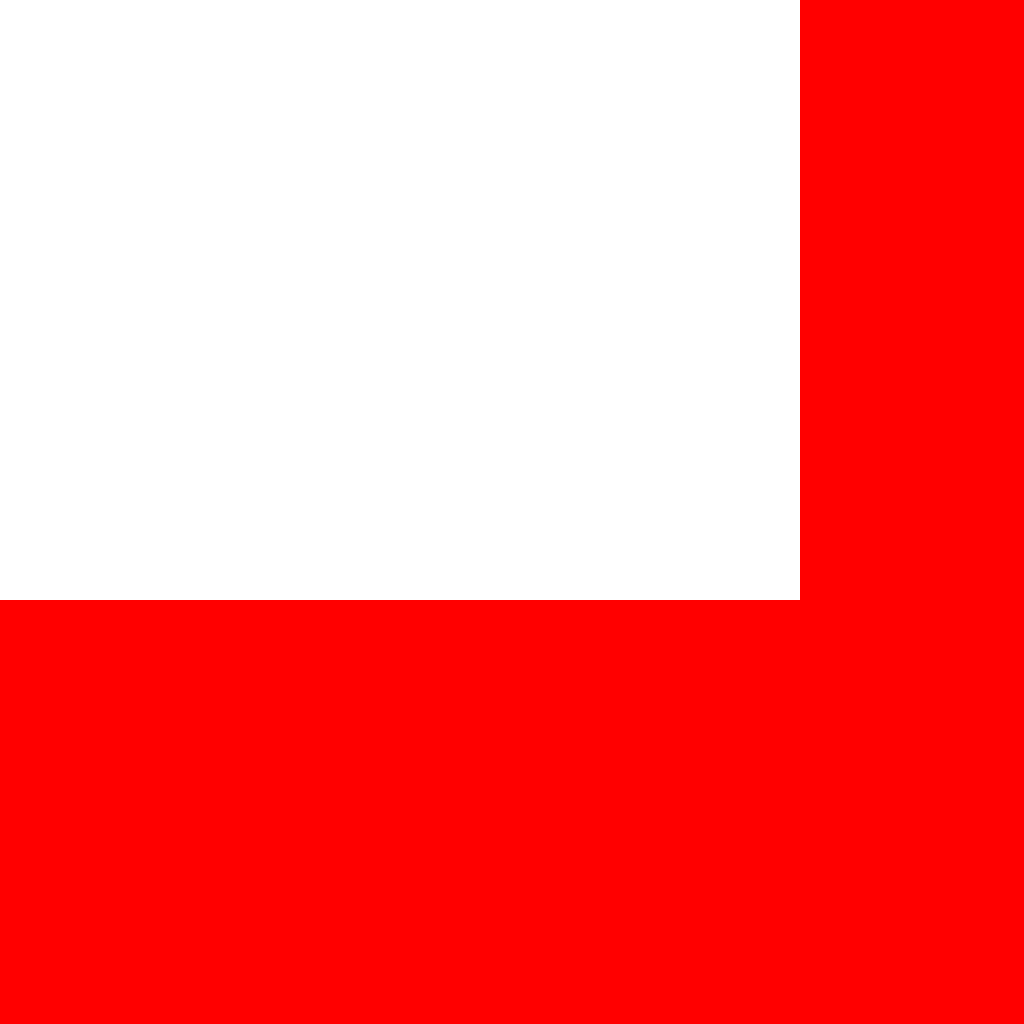
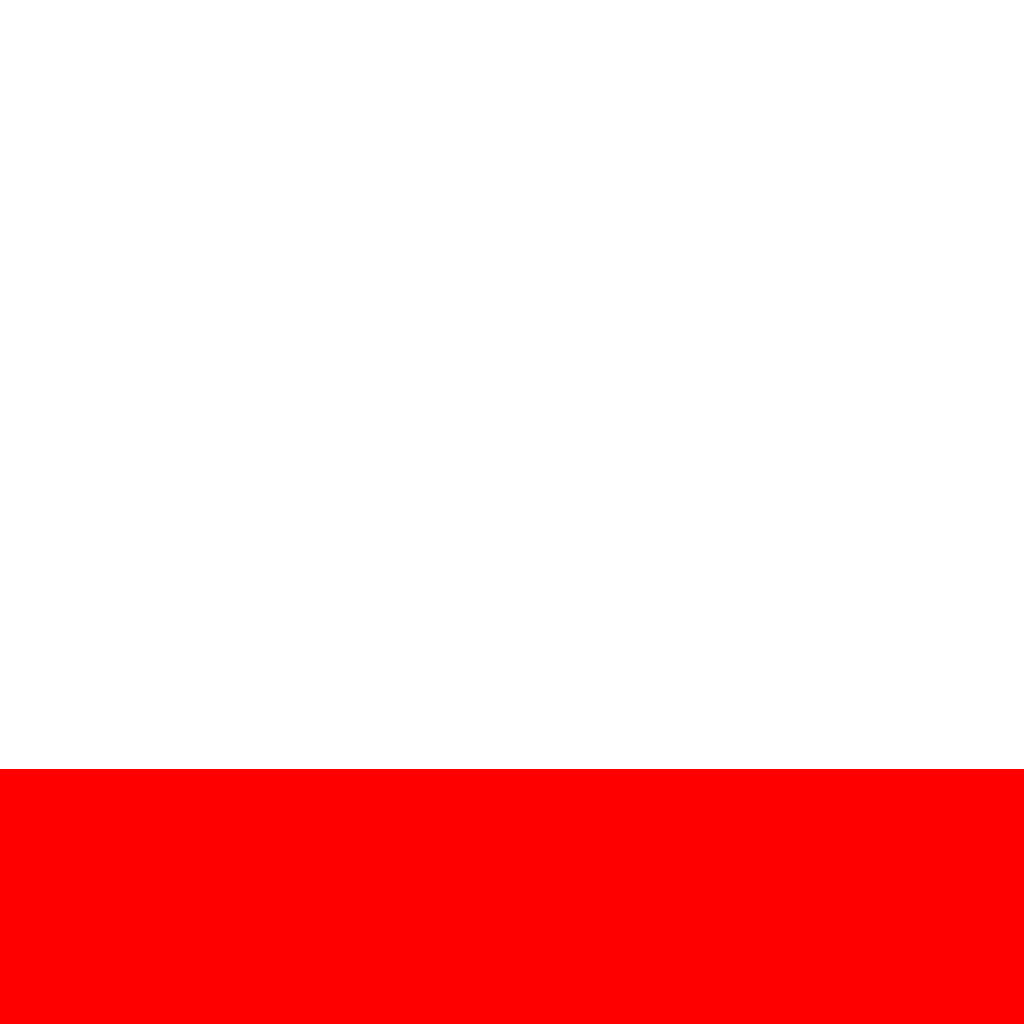
Updated ingame GUI size.

Changed region(s): [[0.0, 0.0, 1.0, 0.75]]

diff --git a/src/orpg/editor/ui/MapView.java b/src/orpg/editor/ui/MapView.java
@@ -36,8 +36,8 @@ import orpg.shared.data.MapLayer;
 import orpg.shared.data.TileFlag;
 import orpg.shared.data.component.Position;
 
-public class MapView extends JComponent implements Observer,
-		MouseListener, MouseMotionListener {
+public class MapView extends JComponent implements Observer, MouseListener,
+		MouseMotionListener {
 
 	private static final AlphaComposite ATTRIBUTE_COMPOSITE = AlphaComposite
 			.getInstance(AlphaComposite.SRC_OVER,
@@ -96,10 +96,9 @@ public class MapView extends JComponent implements Observer,
 		this.addMouseMotionListener(this);
 
 		// Setup the scroll bars to make requests for segments
-		AdjustmentListener listener = new MapViewAdjustmentListener(
-				controller, editorController, scrollPane);
-		scrollPane.getHorizontalScrollBar()
-				.addAdjustmentListener(listener);
+		AdjustmentListener listener = new MapViewAdjustmentListener(controller,
+				editorController, scrollPane);
+		scrollPane.getHorizontalScrollBar().addAdjustmentListener(listener);
 		scrollPane.getVerticalScrollBar().addAdjustmentListener(listener);
 
 		// Setup autotile renderers
@@ -136,8 +135,8 @@ public class MapView extends JComponent implements Observer,
 
 		g.drawImage(this.images[(tile / Constants.TILESET_WIDTH)
 				/ Constants.TILESET_HEIGHT], x, y, x + tileWidth, y
-				+ tileHeight, srcX, srcY, srcX + Constants.TILE_WIDTH,
-				srcY + Constants.TILE_HEIGHT, null);
+				+ tileHeight, srcX, srcY, srcX + Constants.TILE_WIDTH, srcY
+				+ Constants.TILE_HEIGHT, null);
 
 	}
 
@@ -166,13 +165,12 @@ public class MapView extends JComponent implements Observer,
 		// Determine renderable area
 		int startX = Math.max(0, (scrollPane.getHorizontalScrollBar()
 				.getValue() / tileWidth) - 4);
-		int startY = Math.max(0, (scrollPane.getVerticalScrollBar()
-				.getValue() / tileHeight) - 4);
-		int endX = Math.min(startX + 6
-				+ (scrollPane.getWidth() / tileWidth),
+		int startY = Math
+				.max(0,
+						(scrollPane.getVerticalScrollBar().getValue() / tileHeight) - 4);
+		int endX = Math.min(startX + 6 + (scrollPane.getWidth() / tileWidth),
 				mapController.getMapWidth());
-		int endY = Math.min(startY + 6
-				+ (scrollPane.getHeight() / tileHeight),
+		int endY = Math.min(startY + 6 + (scrollPane.getHeight() / tileHeight),
 				mapController.getMapHeight());
 		short tile;
 
@@ -196,17 +194,16 @@ public class MapView extends JComponent implements Observer,
 						}
 					} else if (tile == Map.LOADING_TILE) {
 						if (z == 0) {
-							graphics.drawImage(this.loadingTile, dX, dY,
-									dX + tileWidth, dY + tileHeight, 0, 0,
+							graphics.drawImage(this.loadingTile, dX, dY, dX
+									+ tileWidth, dY + tileHeight, 0, 0,
 									Constants.TILE_WIDTH,
 									Constants.TILE_HEIGHT, null);
 						}
 					} else {
 						if (autoTiles.containsKey(tile)) {
-							autoTileRenderers.get(autoTiles.get(tile))
-									.draw(graphics, x, y, z, tile, dX, dY,
-											tileWidth, tileHeight,
-											mapController, this.images);
+							autoTileRenderers.get(autoTiles.get(tile)).draw(
+									graphics, x, y, z, tile, dX, dY, tileWidth,
+									tileHeight, mapController, this.images);
 						} else {
 							renderTile(graphics, dX, dY, tile);
 						}
@@ -234,14 +231,13 @@ public class MapView extends JComponent implements Observer,
 
 		// Render grid above everything if necessary
 		if (editorController.isGridEnabled()) {
-			renderGrid(graphics, regularComposite, startX, startY, endX,
-					endY);
+			renderGrid(graphics, regularComposite, startX, startY, endX, endY);
 		}
 
 		// Render attributes if we are in the attributes tab
 		if (editorController.getCurrentTab() == MapEditorTab.ATTRIBUTES) {
-			renderAttributes(graphics, regularComposite, startX, startY,
-					endX, endY);
+			renderAttributes(graphics, regularComposite, startX, startY, endX,
+					endY);
 		}
 
 	}
@@ -287,15 +283,15 @@ public class MapView extends JComponent implements Observer,
 	 * @param endY
 	 */
 	private void renderGrid(Graphics2D graphics,
-			AlphaComposite regularComposite, int startX, int startY,
-			int endX, int endY) {
+			AlphaComposite regularComposite, int startX, int startY, int endX,
+			int endY) {
 		graphics.setComposite(GRID_COMPOSITE);
 		graphics.setColor(Color.gray);
 		// Render the entire tilerange
 		for (int y = startY; y < endY; y++) {
 			for (int x = startX; x < endX; x++) {
-				graphics.drawRect(x * tileWidth, y * tileHeight,
-						tileWidth, tileHeight);
+				graphics.drawRect(x * tileWidth, y * tileHeight, tileWidth,
+						tileHeight);
 			}
 		}
 		graphics.setComposite(regularComposite);
@@ -312,8 +308,8 @@ public class MapView extends JComponent implements Observer,
 	 * @param endY
 	 */
 	private void renderEntities(Graphics2D graphics,
-			AlphaComposite regularComposite, int startX, int startY,
-			int endX, int endY) {
+			AlphaComposite regularComposite, int startX, int startY, int endX,
+			int endY) {
 		graphics.setComposite(ENTITY_COMPOSITE);
 		Color fillColor = Color.blue.brighter();
 		Color borderColor = Color.gray.darker();
@@ -325,8 +321,10 @@ public class MapView extends JComponent implements Observer,
 
 		List<ComponentList> entities;
 		Position position;
-		for (int sX = startSegmentX; sX <= endSegmentX; sX++) {
-			for (int sY = startSegmentY; sY <= endSegmentY; sY++) {
+		for (int sX = startSegmentX; sX <= Math.min(endSegmentX, mapController
+				.getMap().getSegmentsWide() - 1); sX++) {
+			for (int sY = startSegmentY; sY <= Math.min(endSegmentX,
+					mapController.getMap().getSegmentsHigh() - 1); sY++) {
 				if (mapController.getSegments()[sX][sY] != null) {
 					entities = mapController.getSegments()[sX][sY]
 							.getEntities();
@@ -337,15 +335,13 @@ public class MapView extends JComponent implements Observer,
 									&& position.getY() >= startY
 									&& position.getY() < endY) {
 								graphics.setColor(fillColor);
-								graphics.fillRect(position.getX()
-										* tileWidth, position.getY()
-										* tileHeight, tileWidth,
-										tileHeight);
+								graphics.fillRect(position.getX() * tileWidth,
+										position.getY() * tileHeight,
+										tileWidth, tileHeight);
 								graphics.setColor(borderColor);
-								graphics.drawRect(position.getX()
-										* tileWidth, position.getY()
-										* tileHeight, tileWidth,
-										tileHeight);
+								graphics.drawRect(position.getX() * tileWidth,
+										position.getY() * tileHeight,
+										tileWidth, tileHeight);
 							}
 						}
 					}
@@ -357,16 +353,16 @@ public class MapView extends JComponent implements Observer,
 	}
 
 	private void renderAttributes(Graphics2D graphics,
-			AlphaComposite regularComposite, int startX, int startY,
-			int endX, int endY) {
+			AlphaComposite regularComposite, int startX, int startY, int endX,
+			int endY) {
 		TileFlag flag = editorController.getCurrentTileFlag();
 		graphics.setComposite(ATTRIBUTE_COMPOSITE);
 		for (int y = startY; y < endY; y++) {
 			for (int x = startX; x < endX; x++) {
 				if (mapController.hasFlag(x, y, flag)) {
 					graphics.setColor(Color.red);
-					graphics.fillRect(x * tileWidth, y * tileHeight,
-							tileWidth, tileHeight);
+					graphics.fillRect(x * tileWidth, y * tileHeight, tileWidth,
+							tileHeight);
 				}
 			}
 		}

diff --git a/src/orpg/client/net/handlers/SegmentDataHandler.java b/src/orpg/client/net/handlers/SegmentDataHandler.java
@@ -9,6 +9,7 @@ import com.badlogic.gdx.Gdx;
 import com.badlogic.gdx.graphics.Texture;
 
 import orpg.client.BaseClient;
+import orpg.client.ClientConstants;
 import orpg.client.Paths;
 import orpg.client.data.ClientReceivedPacket;
 import orpg.client.data.component.Camera;
@@ -48,8 +49,8 @@ public class SegmentDataHandler implements ClientPacketHandler {
 		System.out.println("Using local? " + usingLocal);
 
 		final Segment segment = (usingLocal ? baseClient.getLocalMap()
-				.getSegment(tmpSegmentX, tmpSegmentY) : packet
-				.getByteBuffer().getSegment());
+				.getSegment(tmpSegmentX, tmpSegmentY) : packet.getByteBuffer()
+				.getSegment());
 
 		final short segmentX = usingLocal ? tmpSegmentX : segment.getX();
 		final short segmentY = usingLocal ? tmpSegmentY : segment.getY();
@@ -58,8 +59,7 @@ public class SegmentDataHandler implements ClientPacketHandler {
 		baseClient.getMap().updateSegment(segment, false);
 		baseClient.getAutoTileController().updateAutoTileCache(
 				baseClient.getMap(), segment, true);
-		baseClient.getSegmentRequestManager().receivedResponse(mapId,
-				segment);
+		baseClient.getSegmentRequestManager().receivedResponse(mapId, segment);
 
 		// Switch to game state if we aren't already in game state
 		if (!(baseClient.getStateManager().getCurrentState() instanceof GameState)) {
@@ -125,8 +125,7 @@ public class SegmentDataHandler implements ClientPacketHandler {
 					// Can assume named if is player
 					if (baseClient.getEntity() == null
 							&& isPlayerMapper.getSafe(entity) != null
-							&& namedMapper.get(entity).getName()
-									.equals(name)) {
+							&& namedMapper.get(entity).getName().equals(name)) {
 						baseClient.setEntity(entity);
 
 						// If we were presently changing maps, we are done now
@@ -135,8 +134,10 @@ public class SegmentDataHandler implements ClientPacketHandler {
 						// If it is the player, add the camera if it is not
 						// already present
 						Position position = positionMapper.get(entity);
-						entity.addComponent(new Camera(800, 446,
-								baseClient.getMap().getWidth()
+						entity.addComponent(new Camera(
+								ClientConstants.GAME_WIDTH,
+								ClientConstants.GAME_HEIGHT, baseClient
+										.getMap().getWidth()
 										* Constants.TILE_WIDTH, baseClient
 										.getMap().getHeight()
 										* Constants.TILE_HEIGHT, position

diff --git a/src/orpg/client/state/GameState.java b/src/orpg/client/state/GameState.java
@@ -1,6 +1,7 @@
 package orpg.client.state;
 
 import orpg.client.BaseClient;
+import orpg.client.ClientConstants;
 import orpg.client.Paths;
 import orpg.client.ui.BackgroundTextureActor;
 import orpg.client.ui.MapEntitiesActor;
@@ -32,6 +33,10 @@ public class GameState extends ClientState {
 			Texture loadingTileTexture, Texture[] spritesets) {
 		this.baseClient = baseClient;
 
+		// Update the size of the game screen
+		((ClientStateManager) (baseClient.getStateManager())).getGame().resize(
+				1024, 768);
+
 		// Setup the stage
 		this.stage = new Stage();
 
@@ -39,27 +44,22 @@ public class GameState extends ClientState {
 		this.loadingTileTexture = loadingTileTexture;
 		this.spritesets = spritesets;
 
-		Actor bottomLayersActor = new MapLayerActor(
-				baseClient,
-				tilesets,
-				loadingTileTexture,
-				new int[] { MapLayer.GROUND.ordinal(),
+		Actor bottomLayersActor = new MapLayerActor(baseClient, tilesets,
+				loadingTileTexture, new int[] { MapLayer.GROUND.ordinal(),
 						MapLayer.MASK.ordinal(), MapLayer.MASK_2.ordinal() },
-				0, 800, 0, 446);
-		Actor mapEntitiesActor = new MapEntitiesActor(baseClient,
-				spritesets);
+				0, ClientConstants.GAME_WIDTH, 0, ClientConstants.GAME_HEIGHT);
+		Actor mapEntitiesActor = new MapEntitiesActor(baseClient, spritesets);
 		Actor topLayersActor = new MapLayerActor(baseClient, tilesets,
-				loadingTileTexture,
-				new int[] { MapLayer.FRINGE.ordinal() }, 0, 800, 0, 446);
+				loadingTileTexture, new int[] { MapLayer.FRINGE.ordinal() }, 0,
+				ClientConstants.GAME_WIDTH, 0, ClientConstants.GAME_HEIGHT);
 
 		this.stage.addActor(bottomLayersActor);
 		this.stage.addActor(mapEntitiesActor);
 		this.stage.addActor(topLayersActor);
 
-		this.backgroundTexture = new Texture(
-				Paths.asset("game_background.png"));
-		this.stage.addActor(new BackgroundTextureActor(backgroundTexture,
-				800, 600, true));
+		this.backgroundTexture = new Texture(Paths.asset("game_background.png"));
+		this.stage.addActor(new BackgroundTextureActor(backgroundTexture, 1024,
+				768, true));
 
 		// Setup the camera
 		this.camera = new OrthographicCamera(Gdx.graphics.getWidth(),
@@ -94,6 +94,7 @@ public class GameState extends ClientState {
 
 	@Override
 	public void resize(int width, int height) {
+
 	}
 
 	@Override

diff --git a/src/orpg/client/ClientGame.java b/src/orpg/client/ClientGame.java
@@ -13,6 +13,7 @@ import orpg.shared.Constants;
 import orpg.shared.state.StateManager;
 
 import com.badlogic.gdx.Game;
+import com.badlogic.gdx.Gdx;
 
 public class ClientGame extends Game {
 
@@ -42,11 +43,16 @@ public class ClientGame extends Game {
 		}
 
 		// Set up the queue of actions to perfor
-		StateManager stateManager = new ClientStateManager(this);
+		ClientStateManager stateManager = new ClientStateManager(this);
 		this.baseClient = new BaseClient(this, s, new ClientProcessThread(),
 				stateManager, config);
 		stateManager.pushState(new MainMenuState(baseClient));
 
+	}
+	
+	@Override
+	public void resize(int width, int height) {
+		super.resize(width, height);
 	}
 
 }

diff --git a/src/orpg/client/state/LoadingState.java b/src/orpg/client/state/LoadingState.java
@@ -23,8 +23,6 @@ public class LoadingState extends ClientState {
 		this.stage.addActor(root);
 
 		root.add("Loading...");
-		
-		
 
 	}
 
@@ -55,8 +53,7 @@ public class LoadingState extends ClientState {
 
 	@Override
 	public void resize(int width, int height) {
-		// TODO Auto-generated method stub
-
+		Gdx.graphics.setDisplayMode(1024, 768, false);
 	}
 
 	@Override

diff --git a/src/orpg/client/ClientConstants.java b/src/orpg/client/ClientConstants.java
@@ -10,6 +10,9 @@ public final class ClientConstants {
 	public static final String GROUP_MAP = "map";
 	public static final String GROUP_MAP_SEGMENT = "map_%d_%d";
 	
+	public static final int GAME_WIDTH = 1024;
+	public static final int GAME_HEIGHT = 542;
+	
 	private ClientConstants() {}
 	
 }

diff --git a/src/orpg/client/state/ClientStateManager.java b/src/orpg/client/state/ClientStateManager.java
@@ -14,6 +14,10 @@ public class ClientStateManager extends StateManager  {
 		this.game = game;
 	}
 
+	public Game getGame() {
+		return game;
+	}
+	
 	@Override
 	protected void onChangeState() {
 		try {
